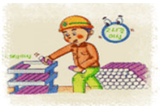
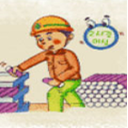
Update safety portal images and improve MSDS PDF handling
Fixes for MSDS PDF preview and download by implementing signed URLs via `/api/download` endpoint. Updates Burden Work illustrations by cropping to the relevant column and adding cache-busting via version parameter.

Replit-Commit-Author: Agent
Replit-Commit-Session-Id: 2ac2e321-d712-4a6c-a959-2a13bc04bb1e
Replit-Commit-Checkpoint-Type: full_checkpoint
Replit-Commit-Event-Id: b94fbd11-a278-4fc4-9b05-3cdbd5b549b7
Replit-Commit-Screenshot-Url: https://storage.googleapis.com/screenshot-production-us-central1/235b0263-0b29-4162-bf1b-c8ec3151e476/2ac2e321-d712-4a6c-a959-2a13bc04bb1e/f3m1fO2
Replit-Helium-Checkpoint-Created: true

diff --git a/client/src/pages/MsdsSearch.tsx b/client/src/pages/MsdsSearch.tsx
@@ -292,18 +292,26 @@ export default function MsdsSearch() {
     }
   };
 
+  const getSignedUrl = async (objectPath: string): Promise<string> => {
+    if (objectPath.startsWith("/uploads/") || objectPath.startsWith("/public-uploads/")) {
+      return objectPath;
+    }
+    const res = await fetch(`/api/download?path=${encodeURIComponent(objectPath)}&ttl=3600`, { credentials: "include" });
+    if (!res.ok) throw new Error("서명 URL 생성 실패");
+    const { url } = await res.json();
+    return url;
+  };
+
   const downloadFile = async (pdfUrl: string, pdfFileName: string): Promise<void> => {
-    const res = await fetch(pdfUrl, { credentials: "include" });
-    if (!res.ok) throw new Error("다운로드 실패");
-    const blob = await res.blob();
-    const blobUrl = URL.createObjectURL(blob);
+    const url = await getSignedUrl(pdfUrl);
     const a = document.createElement("a");
-    a.href = blobUrl;
+    a.href = url;
     a.download = pdfFileName;
+    a.target = "_blank";
+    a.rel = "noopener noreferrer";
     document.body.appendChild(a);
     a.click();
     document.body.removeChild(a);
-    setTimeout(() => URL.revokeObjectURL(blobUrl), 1000);
   };
 
   const handlePreviewPdf = async (chemical: Chemical, e?: React.MouseEvent) => {
@@ -313,12 +321,8 @@ export default function MsdsSearch() {
     setIsPreviewLoading(true);
     setPreviewBlobUrl(null);
     try {
-      const res = await fetch(chemical.pdfUrl!, { credentials: "include" });
-      if (!res.ok) throw new Error("로드 실패");
-      const blob = await res.blob();
-      const pdfBlob = new Blob([blob], { type: "application/pdf" });
-      const url = URL.createObjectURL(pdfBlob);
-      setPreviewBlobUrl(url);
+      const signedUrl = await getSignedUrl(chemical.pdfUrl!);
+      setPreviewBlobUrl(signedUrl);
     } catch {
       toast({ variant: "destructive", title: "미리보기 실패", description: "PDF를 불러올 수 없습니다." });
       setPreviewChemical(null);
@@ -328,7 +332,6 @@ export default function MsdsSearch() {
   };
 
   const closePreview = () => {
-    if (previewBlobUrl) URL.revokeObjectURL(previewBlobUrl);
     setPreviewBlobUrl(null);
     setPreviewChemical(null);
   };

diff --git a/client/src/pages/PublicMusculoskeletal.tsx b/client/src/pages/PublicMusculoskeletal.tsx
@@ -9,7 +9,7 @@ import {
   Briefcase, Activity, HeartPulse, CircleAlert,
 } from "lucide-react";
 import { motion, AnimatePresence } from "framer-motion";
-const BURDEN_ILLUS: string[] = Array.from({ length: 11 }, (_, i) => `/burden-icons/icon${i + 1}.png`);
+const BURDEN_ILLUS: string[] = Array.from({ length: 11 }, (_, i) => `/burden-icons/icon${i + 1}.png?v=4`);
 
 const BURDEN_WORKS = [
   { no:1,  short:"키보드·마우스 조작",          desc:"하루 4시간 이상 집중적으로 키보드·마우스를 사용하는 작업" },
